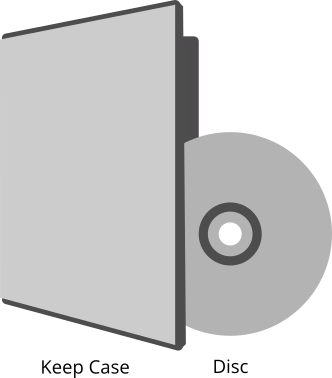
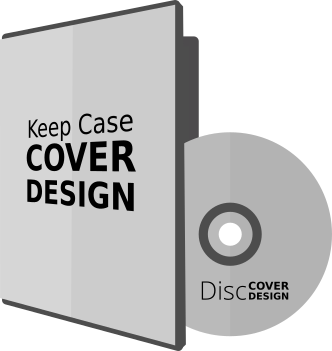
Improved the documentation

diff --git a/README.md b/README.md
@@ -33,6 +33,8 @@ A common naming scheme should also be observed. Directory names are **lowercased
 | DISCLAIMER.md | Includes the disclaimer documentation of your thesis software. |
 
 #### Submission
-Your thesis source code root folder should be compressed (zip, rar, targ.gz, etc) and saved on a CD or DVD disc which is enclosed in a **keep case** for submission.
+* Your thesis source code root folder should be compressed (zip, rar, tar.gz, etc)
+* It should be saved on a CD or DVD disc which is enclosed in a **keep case** for submission.
+* The keep case and disc cover design should include the logo of the University and Institute.
 
 ![case](case.png "case")
